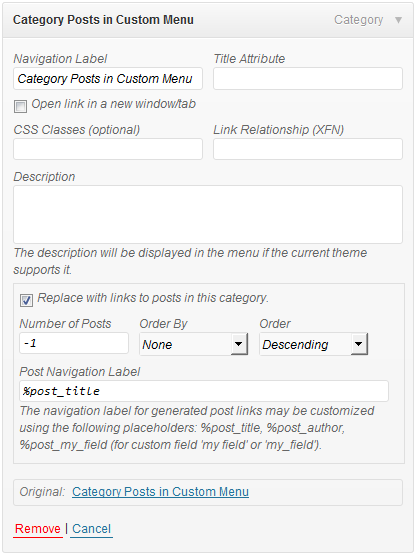
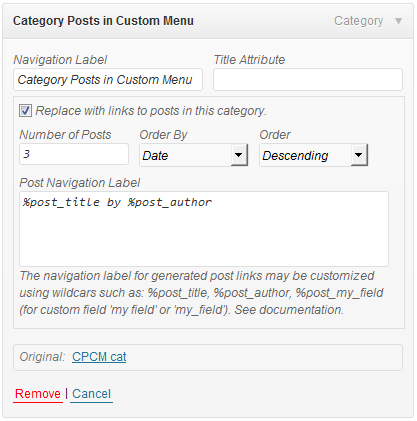
* Added support for custom post types * Fixed user_data bug * Added date formatting options
git-svn-id: https://plugins.svn.wordpress.org/category-posts-in-custom-menu/trunk@623470 b8457f37-d9ea-0310-8a92-e5e31aec5664

diff --git a/category-posts-in-custom-menu.php b/category-posts-in-custom-menu.php
@@ -2,14 +2,14 @@
 /*
     Plugin Name: Category Posts in Custom Menu
     Plugin URI: http://blog.dianakoenraadt.nl
-    Description: This plugin replaces selected Category links / Post Tag links in a Custom Menu by a list of their posts.
-    Version: 0.6
+    Description: This plugin replaces selected Category links / Post Tag links / Custom taxonomy links in a Custom Menu by a list of their posts/pages.
+    Version: 0.7
     Author: Diana Koenraadt
     Author URI: http://www.dianakoenraadt.nl
     License: GPL2
 */
 
-/*  Copyright 2011 Diana Koenraadt (email : diana at dianakoenraadt dot nl)
+/*  Copyright 2012 Diana Koenraadt (email : diana at dianakoenraadt dot nl)
 
     This program is free software; you can redistribute it and/or modify
     it under the terms of the GNU General Public License, version 2, as 
@@ -92,74 +92,96 @@ class CPCM_Manager {
 	        $result = array();    
 	        $inc = 0;
 	        foreach ( (array) $sorted_menu_items as $key => $menu_item ) {
-              // Replace taxonomy object by a list of its posts: Append posts to $result
-              // Remove the taxonomy object itself.
-              if ( $menu_item->type == 'taxonomy' && (get_post_meta($menu_item->db_id, "cpcm-unfold", true) == '1')) {
-                  $inc += -1;
-                  $query_arr = array();
+                // Replace taxonomy object by a list of its posts: Append posts to $result
+                // Remove the taxonomy object itself.
+                if ( $menu_item->type == 'taxonomy' && (get_post_meta($menu_item->db_id, "cpcm-unfold", true) == '1')) {
+					$inc += -1;
+					$query_arr = array();
 
-                  //$query_arr[$menu_item->object] = $menu_item->title; 
-                  $query_arr['tax_query'] = array(array('taxonomy'=>$menu_item->object,
-                    'field'=>'id',
-                    'terms'=>$menu_item->object_id
-                  ));
+					//$query_arr[$menu_item->object] = $menu_item->title; 
+					$query_arr['tax_query'] = array(array('taxonomy'=>$menu_item->object,
+					'field'=>'id',
+					'terms'=>$menu_item->object_id
+					));
 
-                  // If cpcm-unfold is true, the following custom fields exist:
-                  $query_arr['order'] = get_post_meta($menu_item->db_id, "cpcm-order", true);
-                  $query_arr['orderby'] = get_post_meta($menu_item->db_id, "cpcm-orderby", true);
-                  $query_arr['numberposts'] = get_post_meta($menu_item->db_id, "cpcm-item-count", true); // default value of -1 returns all posts
+					// If cpcm-unfold is true, the following custom fields exist:
+					$query_arr['order'] = get_post_meta($menu_item->db_id, "cpcm-order", true);
+					$query_arr['orderby'] = get_post_meta($menu_item->db_id, "cpcm-orderby", true);
+					$query_arr['numberposts'] = get_post_meta($menu_item->db_id, "cpcm-item-count", true); // default value of -1 returns all posts
 
-                  $posts = get_posts( $query_arr );
+					// Support for custom post types
+					$tag = get_taxonomy($menu_item->object);
+					$query_arr['post_type'] = $tag->object_type;
 
-                  foreach( (array) $posts as $pkey => $post ) {
-                      // Decorate the posts with the required data for a menu-item.
-                      $post = wp_setup_nav_menu_item( $post );
-                      $post->menu_item_parent = $menu_item->menu_item_parent; // Set to parent of taxonomy item.
+					$posts = get_posts( $query_arr );
 
-                      // Set the title of the new menu item
-                      $post->title = get_post_meta($menu_item->db_id, "cpcm-item-titles", true);
+					foreach( (array) $posts as $pkey => $post ) {
+						// Decorate the posts with the required data for a menu-item.
+						$post = wp_setup_nav_menu_item( $post );
+						$post->menu_item_parent = $menu_item->menu_item_parent; // Set to parent of taxonomy item.
 
-                      // Replace the placeholders in the title by the properties of the post
-                      $userdata = get_userdata($post->post_author);
-                      $post->title = str_replace( "%post_author", 	$userdata ? $userdata->display_name : '', 	$post->title);
-                      
-                      $featured_image = wp_get_attachment_url( get_post_thumbnail_id($post->ID) );
-                      $post->title = str_replace( "%post_feat_image", 	$featured_image, 	$post->title);
-                      
-                      $post->title = str_replace( "%post_title", 	$post->post_title, 	$post->title);
-                      $post->title = str_replace( "%post_excerpt", 	$post->post_excerpt, 	$post->title);
-                      $post->title = str_replace( "%post_url", 	$post->url, 	$post->title);
-                      $post->title = str_replace( "%post_date_gmt", 	$post->post_date_gmt, 	$post->title);
-                      $post->title = str_replace( "%post_date", 	$post->post_date, 	$post->title);
-                      $post->title = str_replace( "%post_status", 	$post->post_status, 	$post->title);
-                      $post->title = str_replace( "%post_modified_gmt", 	$post->post_modified_gmt, 	$post->title);
-                      $post->title = str_replace( "%post_modified", 	$post->post_modified, 	$post->title);
-                      $post->title = str_replace( "%post_comment_count", 	$post->comment_count, 	$post->title);
-                        
-                      $custom_field_keys = get_post_custom_keys($post->ID);
-                      foreach ( $custom_field_keys as $key => $value ) {
-                          $valuet = trim($value);
-                          if ( '_' == $valuet{0} )
-                              continue;
-                          $meta = get_post_meta($post->ID, $valuet, true);
-                          $valuet_str = str_replace(' ', '_', $valuet);
-                          $post->title = str_replace( "%post_" . $valuet_str, $meta, $post->title);
-                      }
-                      // Remove remaining %post_ occurrences.
-                      $pattern = "/%post_\w+/";
-                      $post->title = preg_replace($pattern, '', $post->title);
+						// Set the title of the new menu item
+						$post->title = get_post_meta($menu_item->db_id, "cpcm-item-titles", true);
 
-                      $inc += 1;
-                  }
-                  // Extend the items with classes.
-                  _wp_menu_item_classes_by_context( $posts );
-                  // Append the new menu_items to the menu array that we're building.
-                  $result = array_merge( $result, $posts );
-              } else {
-                // Treat other objects as usual, but note that the position 
-                // of elements in the array changes.
-                $result[$menu_item->menu_order + $inc] = $menu_item;
-              }
+						// Replace the placeholders in the title by the properties of the post
+						$userdata = get_userdata($post->post_author);
+						$post->title = str_replace( "%post_author", 	$userdata ? $userdata->data->display_name : '', 	$post->title);
+
+						$featured_image = wp_get_attachment_url( get_post_thumbnail_id($post->ID) );
+						$post->title = str_replace( "%post_feat_image", 	$featured_image, 	$post->title);
+
+						$post->title = str_replace( "%post_title", 	$post->post_title, 	$post->title);
+						$post->title = str_replace( "%post_excerpt", 	$post->post_excerpt, 	$post->title);
+						$post->title = str_replace( "%post_url", 	$post->url, 	$post->title);
+
+						$post_date_gmt = $post->post_date_gmt;
+						$post->title = preg_replace("/\%post_date_gmt\(\)/", mysql2date('F jS, Y', $post_date_gmt), $post->title);
+						$post->title = preg_replace("/\%post_date_gmt\(([a-zA-Z\s\\\\:,]*)\)/e", "mysql2date('$1', '$post_date_gmt')", $post->title);
+						$post->title = str_replace( "%post_date_gmt", 	$post_date_gmt, 	$post->title);
+
+						$post_date = $post->post_date;
+						$post->title = preg_replace("/\%post_date\(\)/", mysql2date('F jS, Y', $post_date), $post->title);
+						$post->title = preg_replace("/\%post_date\(([a-zA-Z\s\\\\:,]*)\)/e", "mysql2date('$1', '$post_date')", $post->title);
+						$post->title = str_replace( "%post_date", 	$post_date, 	$post->title);
+
+						$post->title = str_replace( "%post_status", 	$post->post_status, 	$post->title);
+
+						$post_modified_gmt = $post->post_modified_gmt;
+						$post->title = preg_replace("/\%post_modified_gmt\(\)/", mysql2date('F jS, Y', $post_modified_gmt), $post->title);
+						$post->title = preg_replace("/\%post_modified_gmt\(([a-zA-Z\s\\\\:,]*)\)/e", "mysql2date('$1', '$post_modified_gmt')", $post->title);
+						$post->title = str_replace( "%post_modified_gmt", 	$post_modified_gmt, 	$post->title);
+
+						$post_modified = $post->post_modified;
+						$post->title = preg_replace("/\%post_modified\(\)/", mysql2date('F jS, Y', $post_modified), $post->title);
+						$post->title = preg_replace("/\%post_modified\(([a-zA-Z\s\\\\:,]*)\)/e", "mysql2date('$1', '$post_modified')", $post->title);
+						$post->title = str_replace( "%post_modified", 	$post_modified, 	$post->title);
+
+						$post->title = str_replace( "%post_comment_count", 	$post->comment_count, 	$post->title);
+
+						$custom_field_keys = get_post_custom_keys($post->ID);
+						foreach ( $custom_field_keys as $key => $value ) {
+							$valuet = trim($value);
+							if ( '_' == $valuet{0} )
+							continue;
+							$meta = get_post_meta($post->ID, $valuet, true);
+							$valuet_str = str_replace(' ', '_', $valuet);
+							$post->title = str_replace( "%post_" . $valuet_str, $meta, $post->title);
+						}
+						// Remove remaining %post_ occurrences.
+						$pattern = "/%post_\w+/";
+						$post->title = preg_replace($pattern, '', $post->title);
+
+						$inc += 1;
+					}
+					// Extend the items with classes.
+					_wp_menu_item_classes_by_context( $posts );
+					// Append the new menu_items to the menu array that we're building.
+					$result = array_merge( $result, $posts );
+				} else {
+					// Treat other objects as usual, but note that the position 
+					// of elements in the array changes.
+					$result[$menu_item->menu_order + $inc] = $menu_item;
+				}
             }
 
             unset( $sorted_menu_items );
@@ -359,8 +381,8 @@ class CPCM_Walker_Nav_Menu_Edit extends Walker_Nav_Menu_Edit  {
                         <p class="field-cpcm-item-titles description description-wide">
                             <label for="edit-menu-item-cpcm-item-titles-<?php echo $item_id; ?>">
                                 <?php _e( 'Post Navigation Label' ); ?><br />
-                                <input type="text" id="edit-menu-item-cpcm-item-titles-<?php echo $item_id; ?>" class="widefat code edit-menu-item-cpcm-item-titles" name="menu-item-cpcm-item-titles[<?php echo $item_id; ?>]" value="<?php $item_titles = get_post_meta($item_id, "cpcm-item-titles", true); echo $item_titles != '' ? esc_attr( $item_titles ) : '%post_title' ?>" />
-                                <span class="description"><?php _e('The navigation label for generated post links may be customized using the following placeholders: %post_title, %post_author, %post_my_field (for custom field \'my field\' or \'my_field\').'); ?></span>
+                                <textarea id="edit-menu-item-cpcm-item-titles-<?php echo $item_id; ?>" class="widefat code edit-menu-item-cpcm-item-titles" name="menu-item-cpcm-item-titles[<?php echo $item_id; ?>]" rows="4"><?php $item_titles = get_post_meta($item_id, "cpcm-item-titles", true); echo $item_titles != '' ? esc_attr( $item_titles ) : '%post_title' ?></textarea>
+                                <span class="description"><?php _e('The navigation label for generated post links may be customized using wildcars such as: %post_title, %post_author, %post_my_field (for custom field \'my field\' or \'my_field\'). See documentation.'); ?></span>
                             </label>
                         </p>
                     </div>
